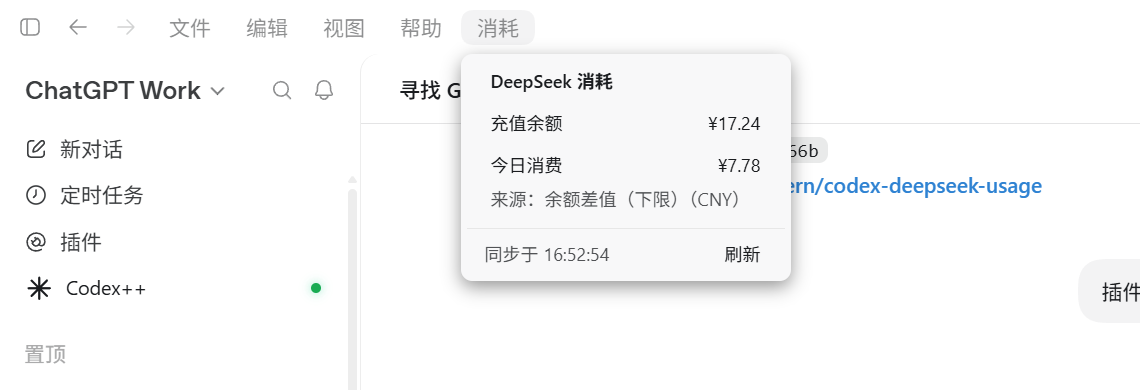
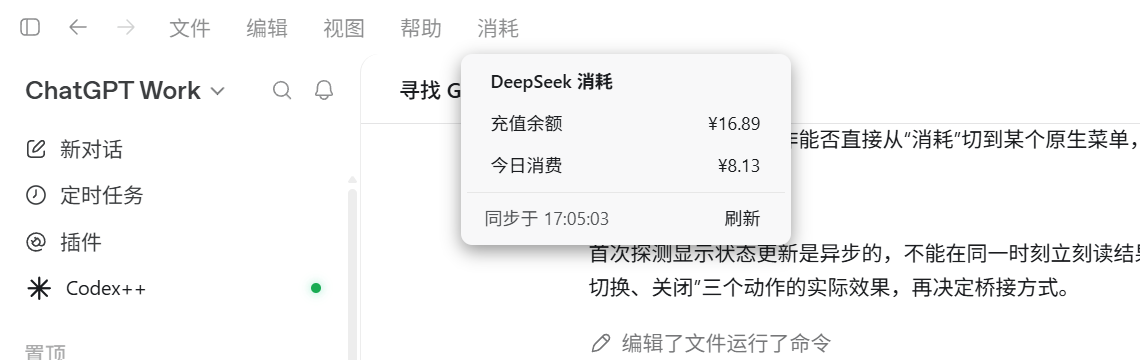
feat: remove source note from usage card
- show only balance, today spend, sync time, and refresh

- remove unused source text rendering code

- update README and screenshot for v1.0.10

diff --git a/deepseek-usage-panel.js b/deepseek-usage-panel.js
@@ -1,7 +1,7 @@
 // ==UserScript==
 // @name         DeepSeek 消耗
 // @description  在 Codex 顶部菜单栏加一个「消耗」按钮，显示 DeepSeek 充值余额与今日消费
-// @version      1.0.9
+// @version      1.0.10
 // @match        app://-/*
 // @grant        none
 // ==/UserScript==
@@ -9,7 +9,7 @@
 (function () {
   'use strict';
 
-  var VERSION = '1.0.9';
+  var VERSION = '1.0.10';
   if (window.__dsUsageUIVersion === VERSION) return;
   window.__dsUsageUIVersion = VERSION;
 
@@ -37,13 +37,6 @@
     var d = new Date(ts);
     function p(x) { return (x < 10 ? '0' : '') + x; }
     return p(d.getHours()) + ':' + p(d.getMinutes()) + ':' + p(d.getSeconds());
-  }
-
-  function sourceText(data) {
-    if (!data) return '';
-    if (data.todaySpendSource === 'platform') return '官网账单';
-    if (data.todaySpendSource === 'balance') return data.todaySpendLowerBound ? '余额差值（下限）' : '余额差值';
-    return '';
   }
 
   function row(label, value, extraClass) {
@@ -180,14 +173,6 @@
     rows.push(row('今日消费', money(data.todaySpend, symbol)));
 
     rows.forEach(function (r) { body.append(r); });
-
-    var src = sourceText(data);
-    if (src) {
-      var note = document.createElement('div');
-      note.textContent = '来源：' + src + (data.currency ? '（' + data.currency + '）' : '');
-      note.style.cssText = 'margin:0 4px;padding:0 16px 6px;font-family:inherit;font-size:12px;font-weight:400;line-height:18px;color:' + TEXT_SECONDARY + ';';
-      body.append(note);
-    }
 
     stamp.textContent = data.updatedAt ? '同步于 ' + timeText(data.updatedAt) : '未同步';
   }
